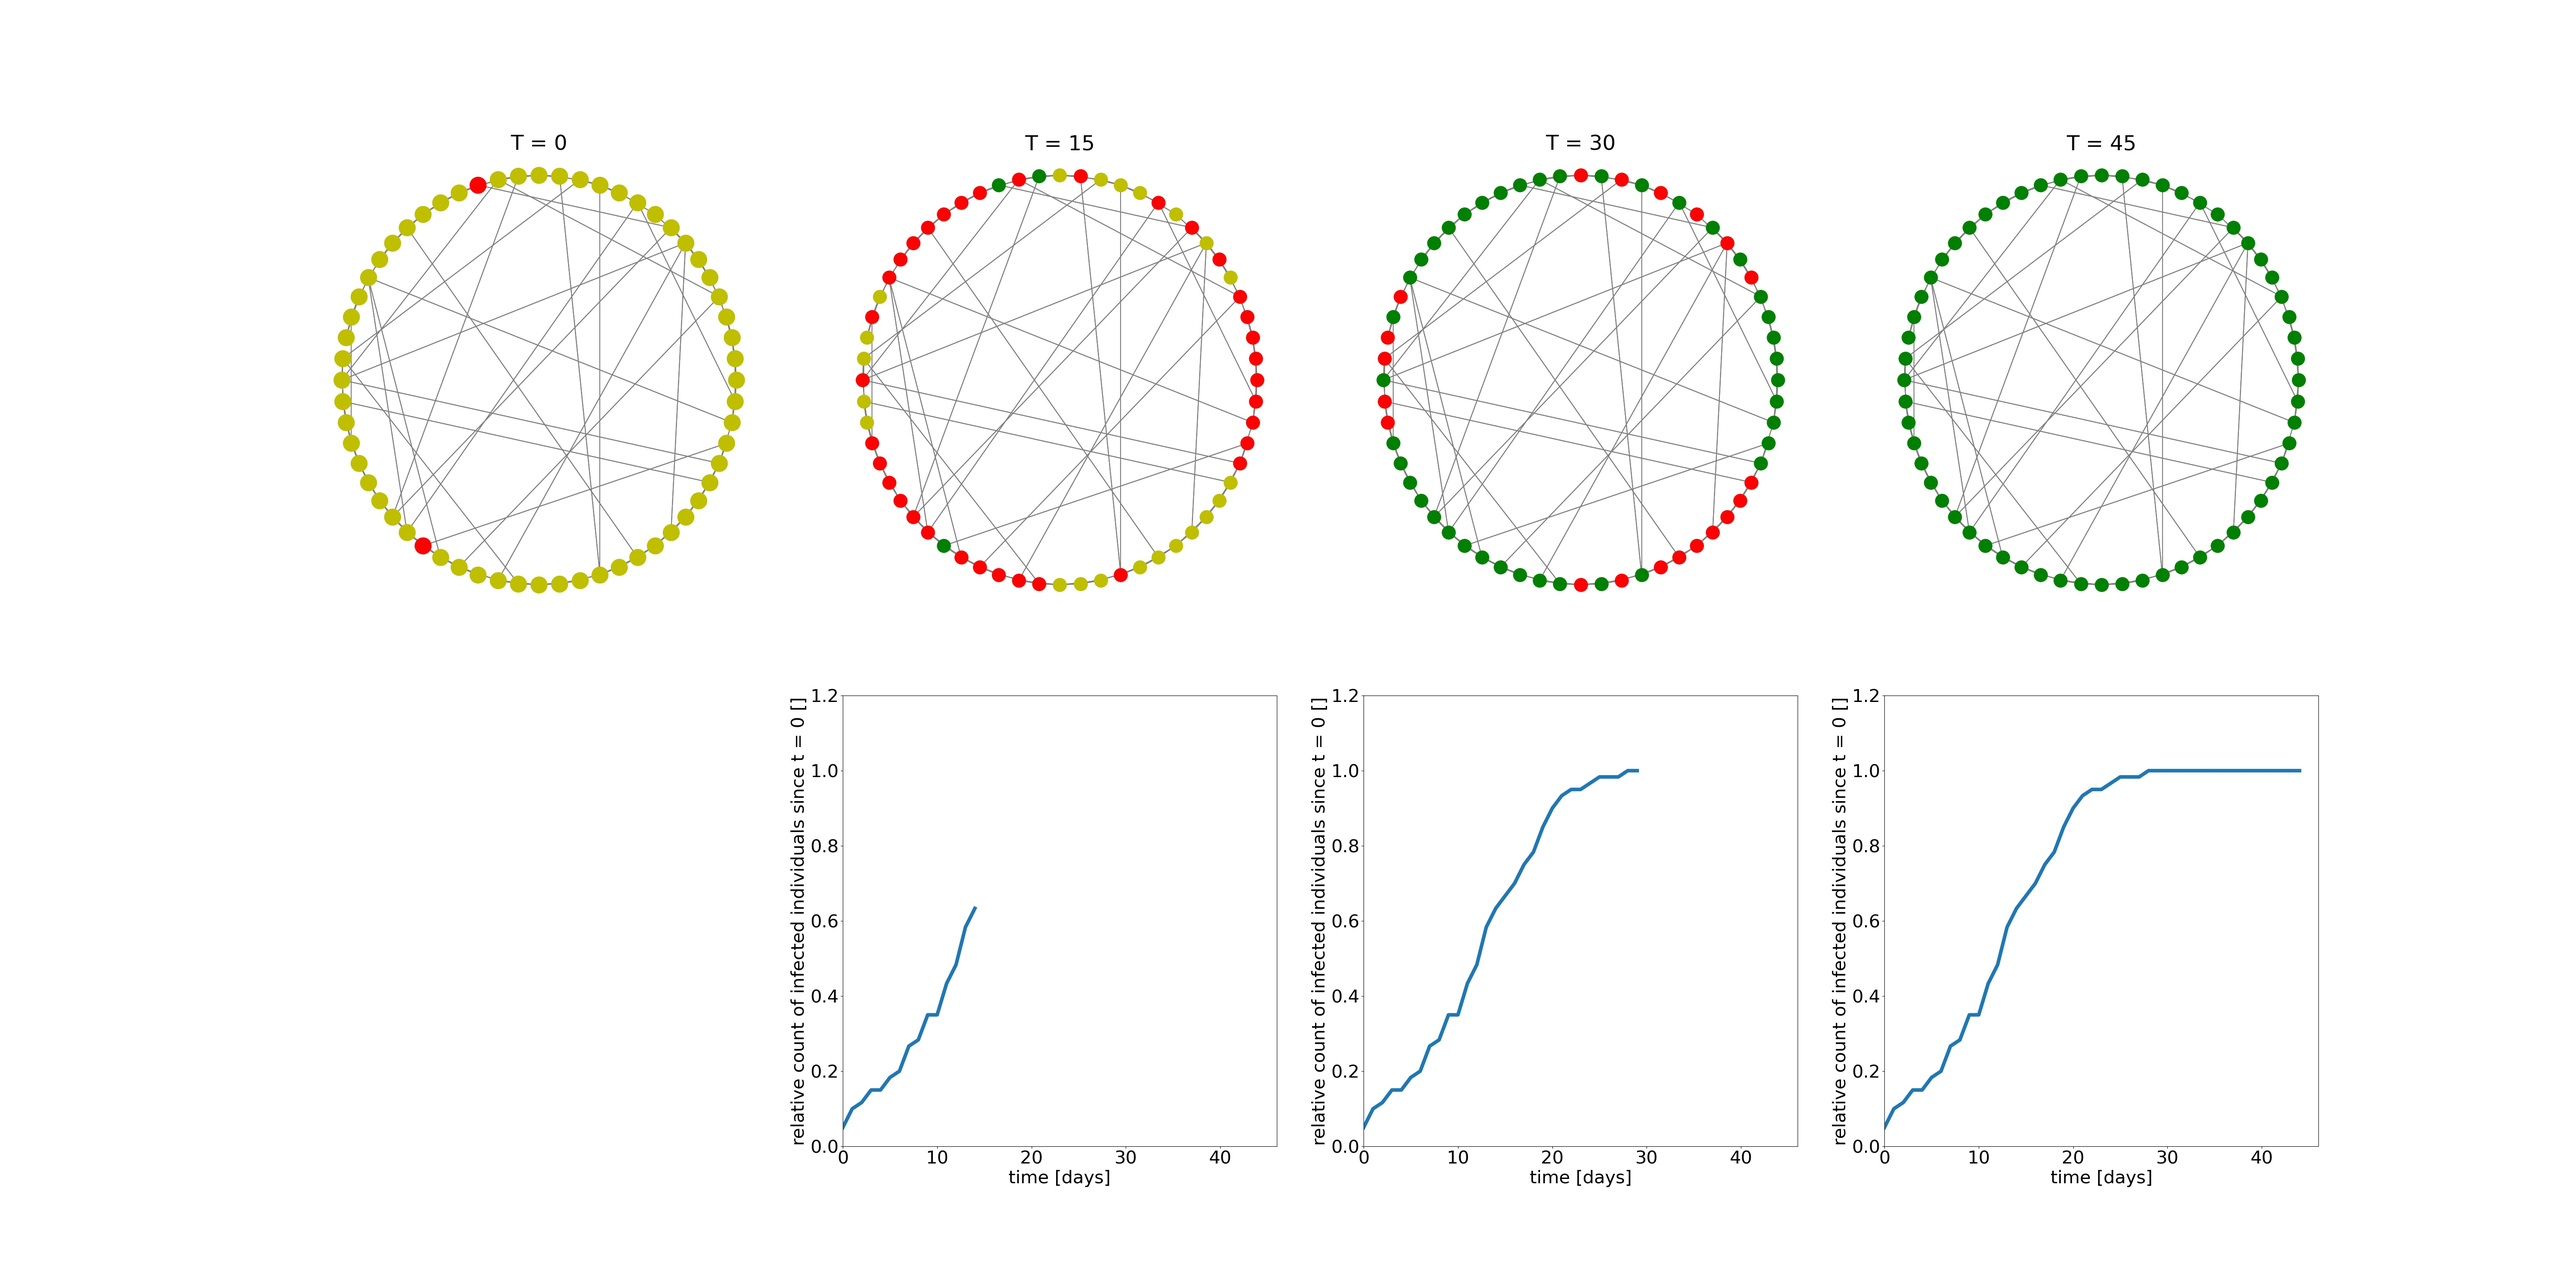
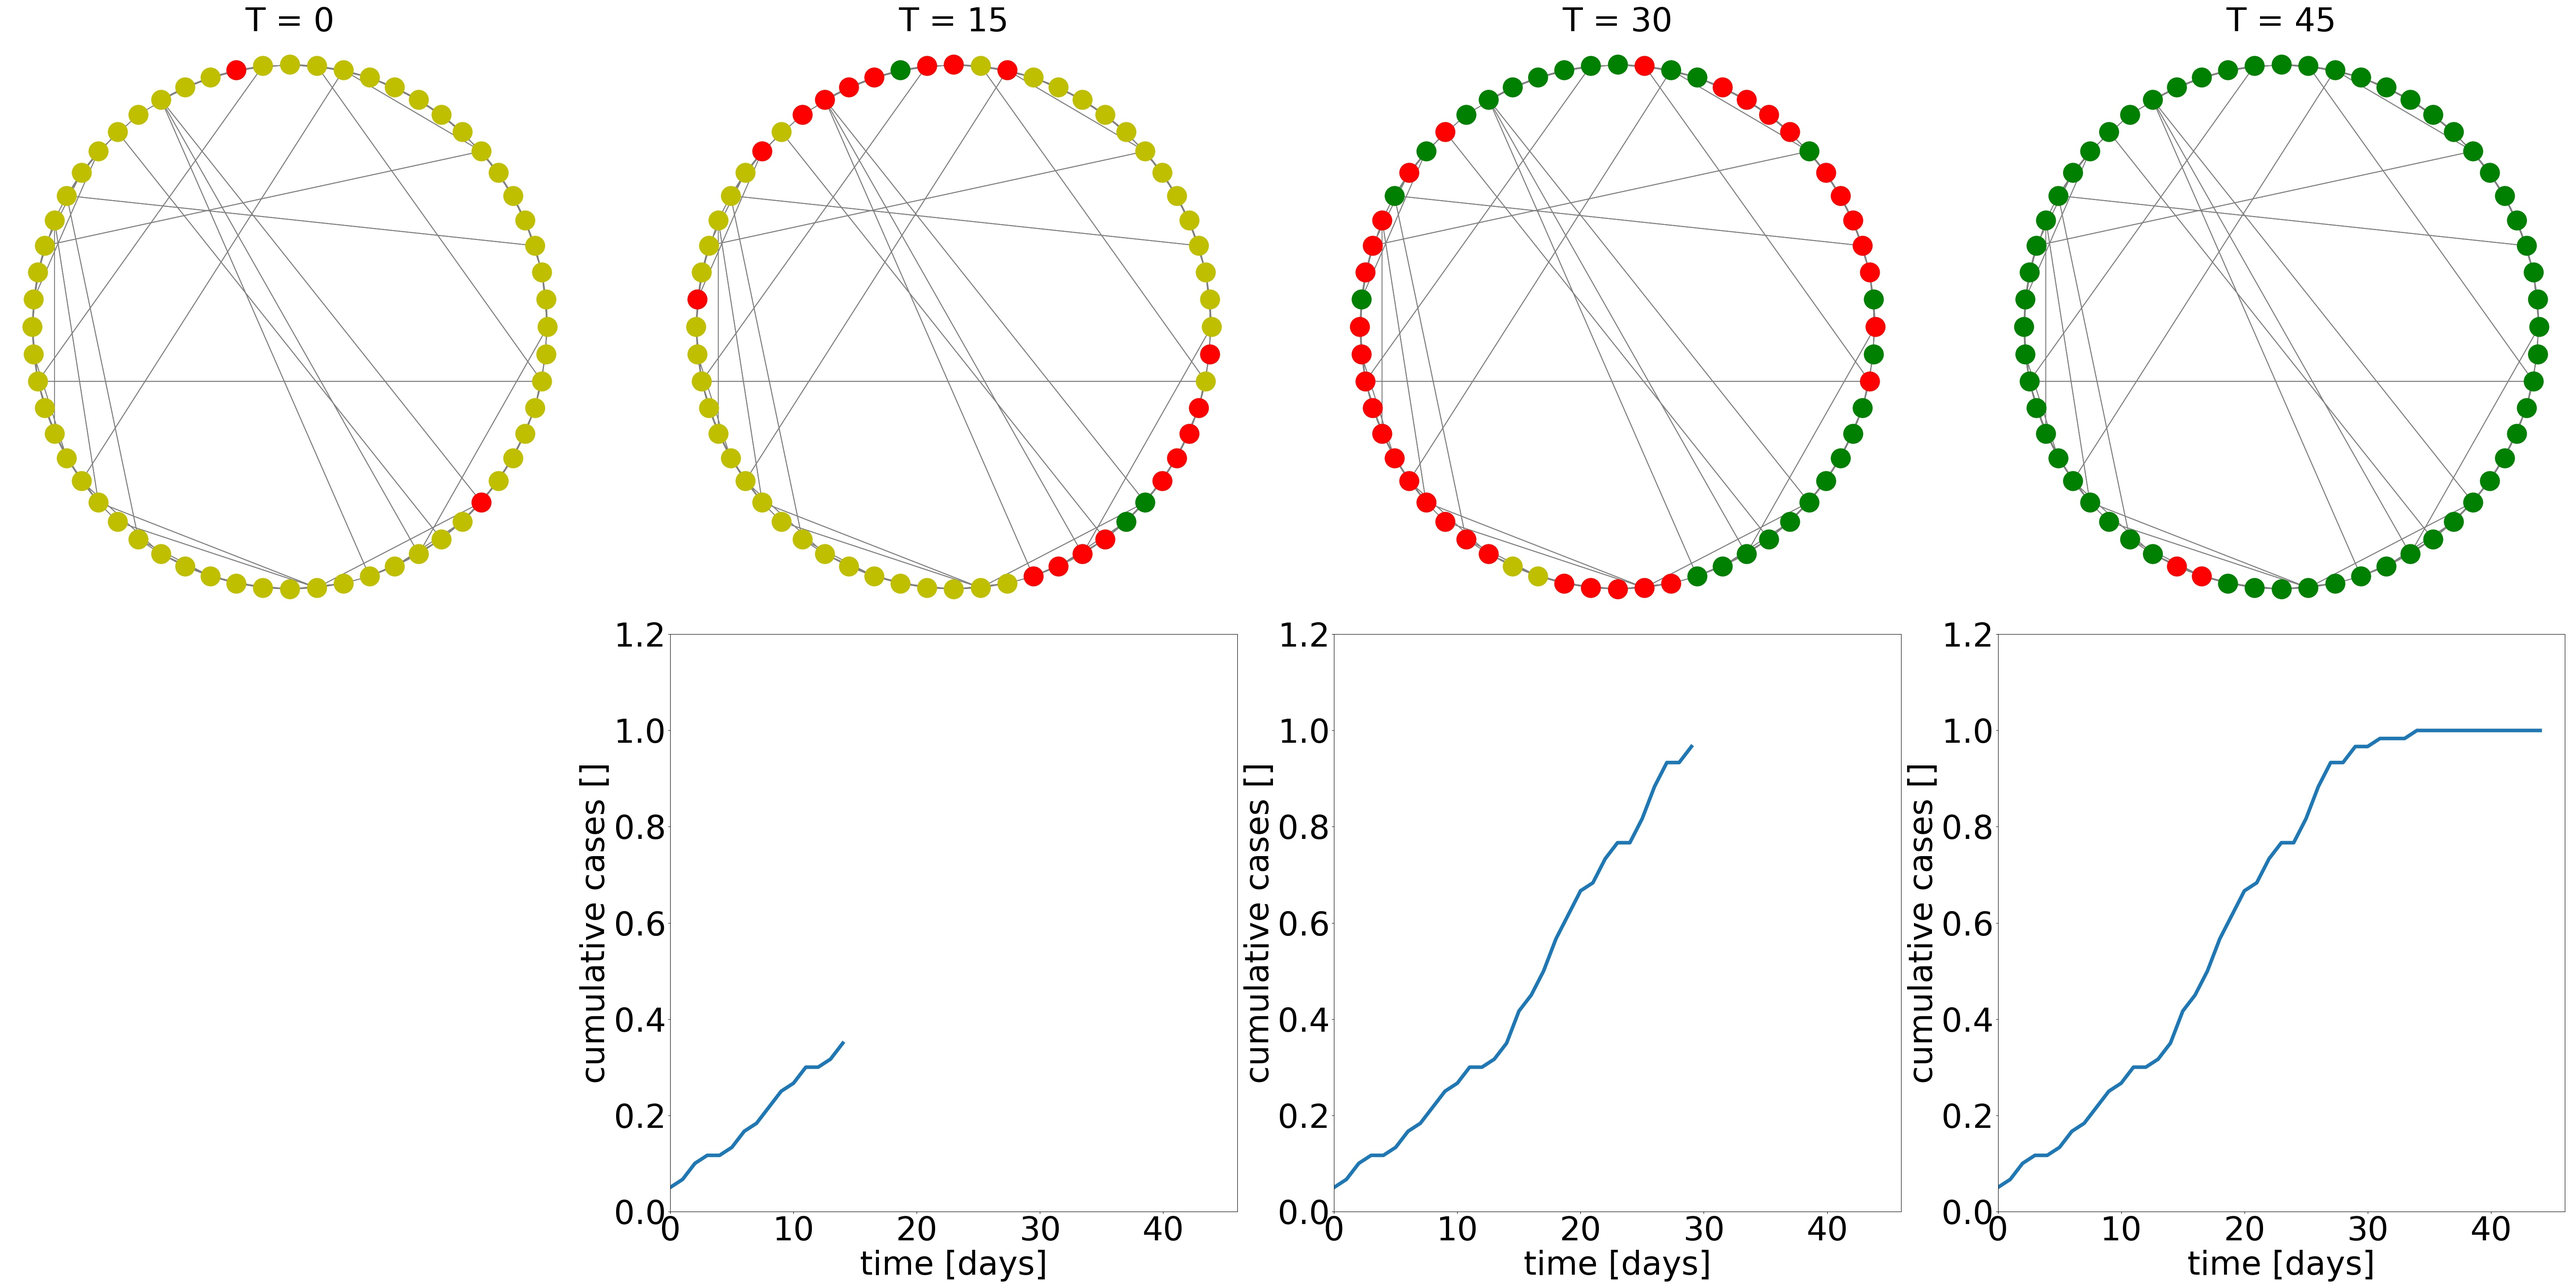
Added images

diff --git a/classes/Simulation.py b/classes/Simulation.py
@@ -499,7 +499,7 @@ class World():
 
         return ill_recoverd / self.N
 
-    def plotter(self,matrix,marker = None,name = None,cols_subplots = None,rows_subplots = None,subplot_index = None,title = None,fs = 35,ms = 100):
+    def plotter(self,matrix,marker = None,name = None,cols_subplots = None,rows_subplots = None,subplot_index = None,title = None,fs = 50,ms = 100):
         r_x = 11
         r_y = 11
 
@@ -512,6 +512,7 @@ class World():
         else:
             plt.subplot(rows_subplots,cols_subplots,subplot_index)
             plt.title(title,fontsize = fs)
+            plt.tight_layout()
 
         plt.axis("off")
 
@@ -557,10 +558,10 @@ def visualization_pandemic_dynamics(version = "V2"):
     n_cols = 4
     n_rows = 2
 
-    fs = 30
+    fs = 55
 
     plt.figure(figsize = (n_cols * width, n_rows * width))
-    W.plotter(matrix=W.Network,cols_subplots=n_cols,rows_subplots=n_rows,subplot_index=1,title="T = 0",ms = 55)
+    W.plotter(matrix=W.Network,cols_subplots=n_cols,rows_subplots=n_rows,subplot_index=1,title="T = 0",ms = 65,fs = fs)
     n = 2
 
     cases = []
@@ -570,12 +571,12 @@ def visualization_pandemic_dynamics(version = "V2"):
         cases.append(c)
 
         if i % interval == 0: 
-            W.plotter(matrix=W.Network,cols_subplots=n_cols,rows_subplots=n_rows,subplot_index=n,title=f"T = {i}",ms = 45)
+            W.plotter(matrix=W.Network,cols_subplots=n_cols,rows_subplots=n_rows,subplot_index=n,title=f"T = {i}",ms = 65,fs = fs)
 
             plt.subplot(n_rows,n_cols,n+n_cols)
             plt.plot(cases, linewidth=6)
             plt.xlabel("time [days]",fontsize = fs)
-            plt.ylabel("relative count of infected individuals since t = 0 []",fontsize = fs)
+            plt.ylabel("cumulative cases []",fontsize = fs)
             plt.xticks(fontsize = fs)
             plt.yticks(fontsize = fs)
             plt.xlim([0,46])
@@ -583,7 +584,7 @@ def visualization_pandemic_dynamics(version = "V2"):
 
             n += 1
 
-    plt.savefig(f"./evaluation_report/pandemic_dynamics_{version}.jpg")
+    plt.savefig(f"pandemic_dynamics_{version}.jpg")
 
 def compare_V2_V3(reps,sets):
     
@@ -692,7 +693,10 @@ def visualize_reduced_degree_pandemic_dynamics(version,T_change = 10):
 
 if __name__ == "__main__":
 
-    Eval = True
+    visualization_pandemic_dynamics("V2")
+    visualization_pandemic_dynamics("V3")
+
+    Eval = False
 
     if Eval:
         print("Visualize initialization...")
@@ -741,3 +745,4 @@ if __name__ == "__main__":
         plt.close()
 
         # compare_V2_V3(reps = 25,sets = 9)
+
